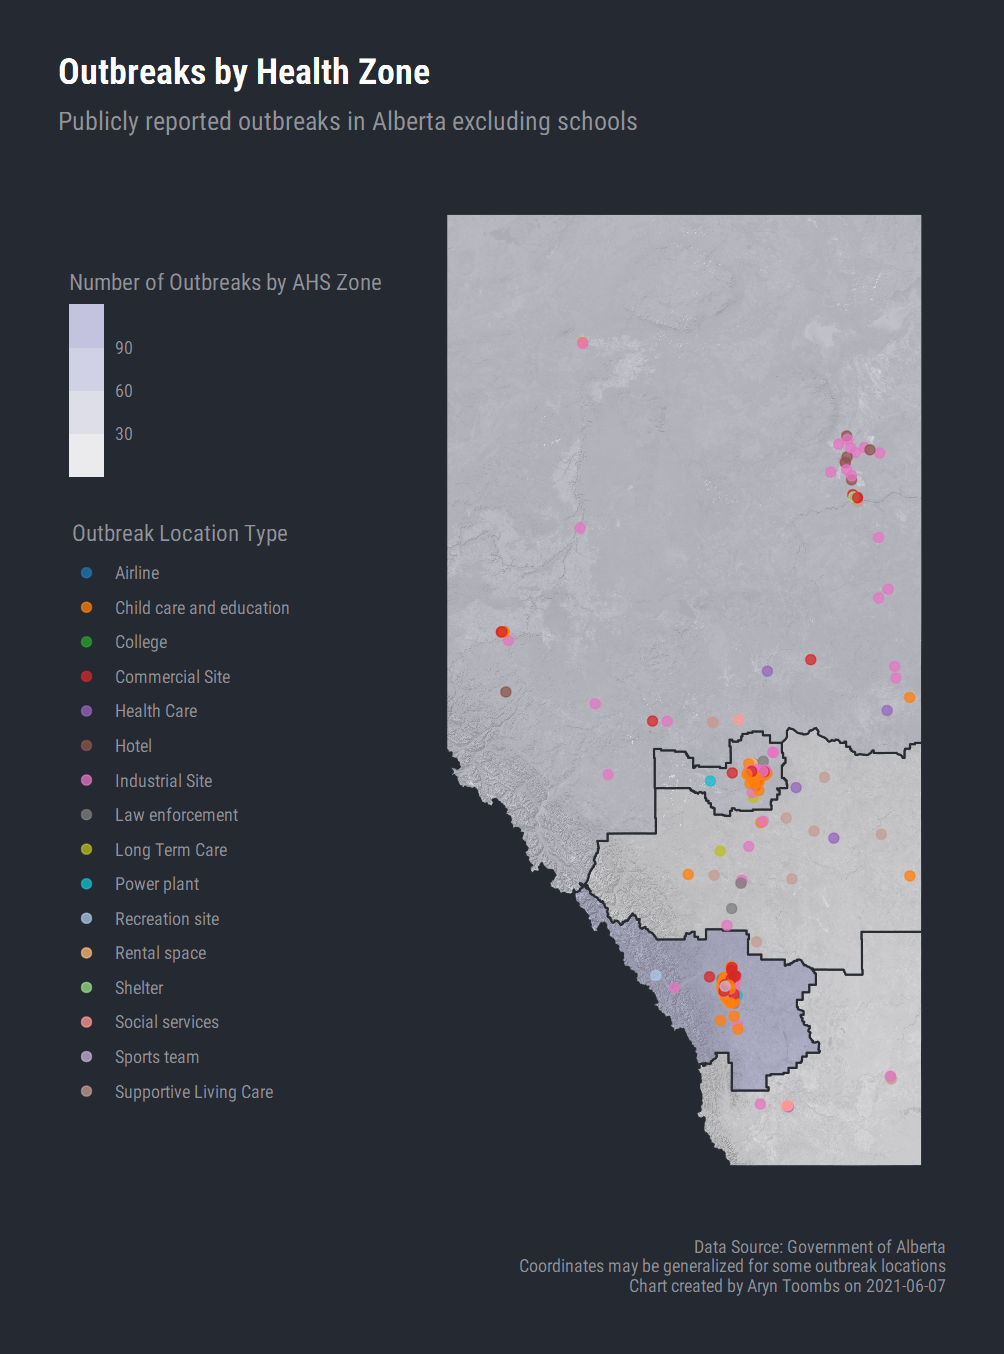
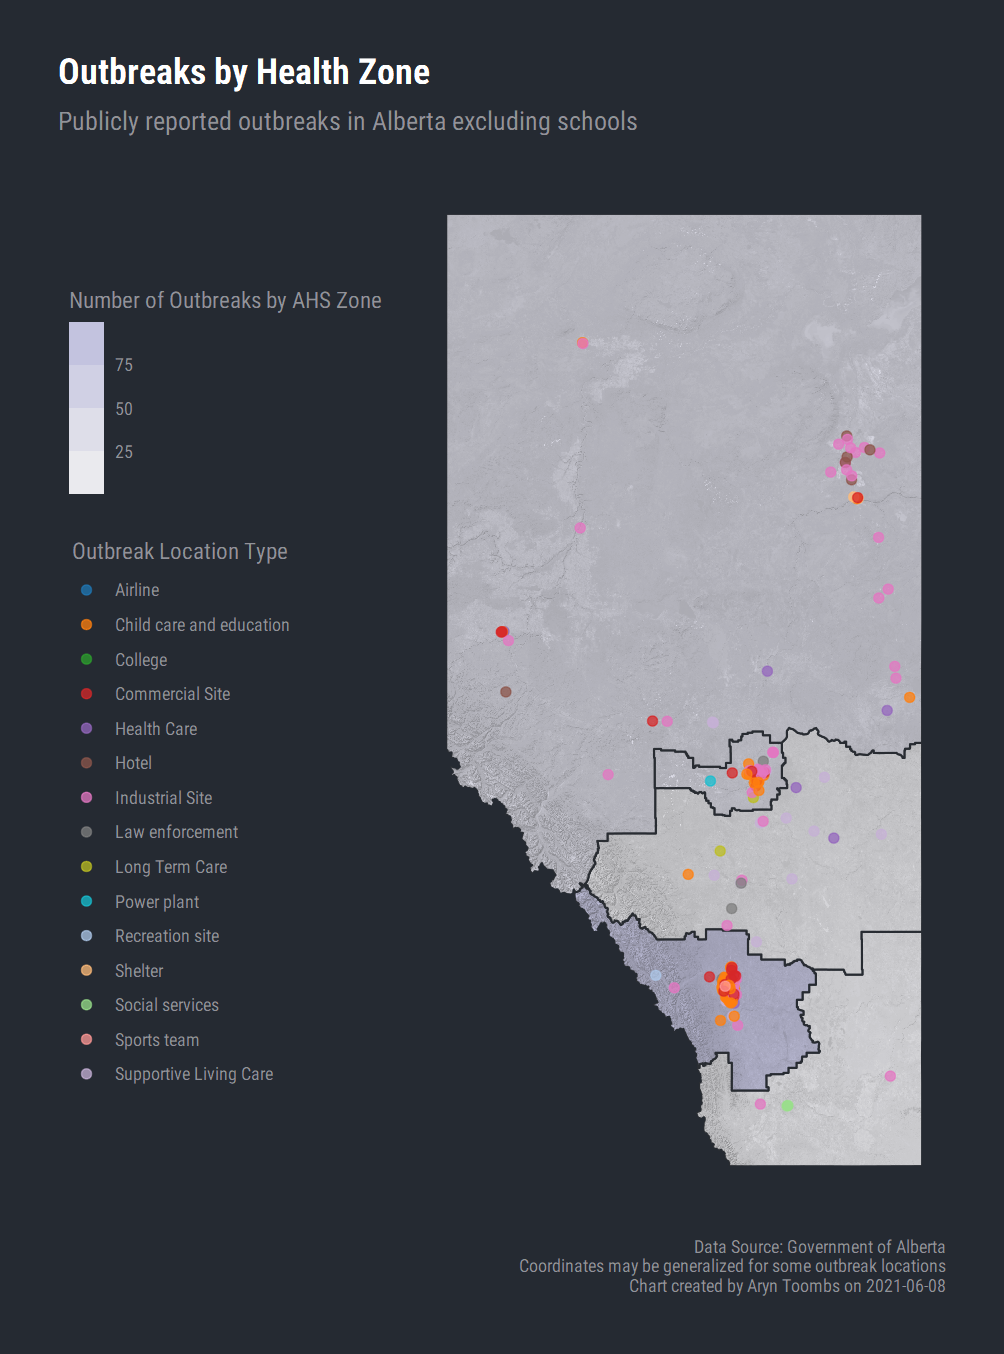
Web

diff --git a/outbreaks/index.html b/outbreaks/index.html
@@ -162,7 +162,7 @@
       Calgary Zone
     </div>
     <div class="row box-bottom justify-content-center">
-      <h4>119</h4>
+      <h4>99</h4>
     </div>
   </div>
   <div class="col-sm ml-1 mr-1">
@@ -170,7 +170,7 @@
       Edmonton Zone
     </div>
     <div class="row box-bottom justify-content-center">
-      <h4>53</h4>
+      <h4>43</h4>
     </div>
   </div>
   <div class="col-sm ml-1 mr-1">
@@ -178,7 +178,7 @@
       South Zone
     </div>
     <div class="row box-bottom justify-content-center">
-      <h4>7</h4>
+      <h4>4</h4>
     </div>
   </div>
   <div class="col-sm ml-1 mr-1">
@@ -186,7 +186,7 @@
       Central Zone
     </div>
     <div class="row box-bottom justify-content-center">
-      <h4>24</h4>
+      <h4>20</h4>
     </div>
   </div>
   <div class="col-sm ml-1 mr-1">
@@ -194,12 +194,12 @@
       North Zone
     </div>
     <div class="row box-bottom justify-content-center">
-      <h4>51</h4>
+      <h4>42</h4>
     </div>
   </div>
 </div>
 <div class="row mb-3 pr-1 pt-1 justify-content-end">
-  <p class="m-1"><i class="bi bi-info-circle-fill"></i> Covid-19 outbreaks (not including schools, see below) current as of Mon, Jun 07, 2021. AHS non-school outbreak data updated on Tuesdays and Fridays.</p>
+  <p class="m-1"><i class="bi bi-info-circle-fill"></i> Covid-19 outbreaks (not including schools, see below) current as of Tue, Jun 08, 2021. AHS non-school outbreak data updated on Tuesdays and Fridays.</p>
 </div>
   <div class="row pl-3">
     <h4 class="body-display">Outbreak Charts</h4>
